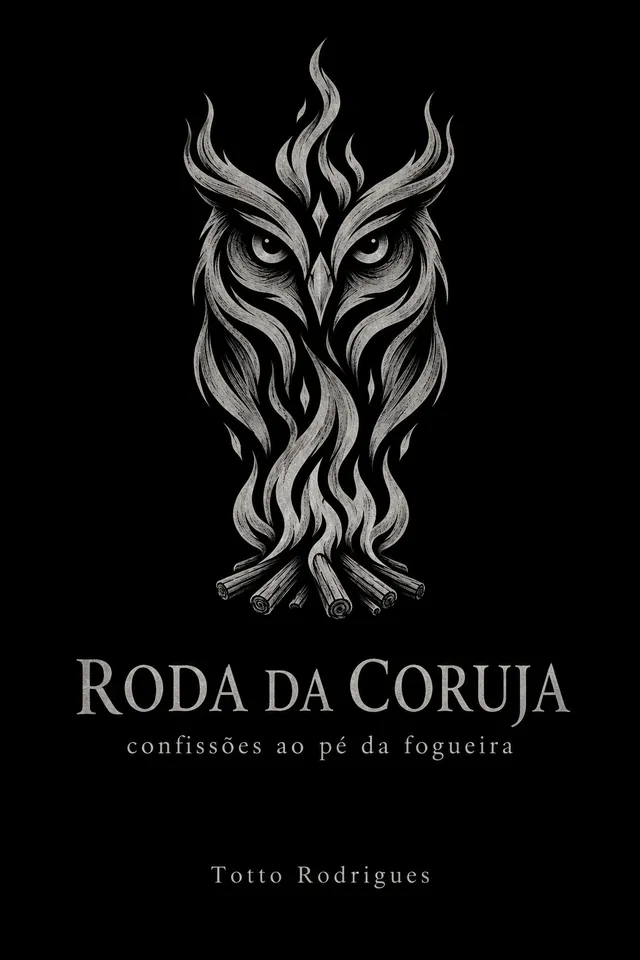
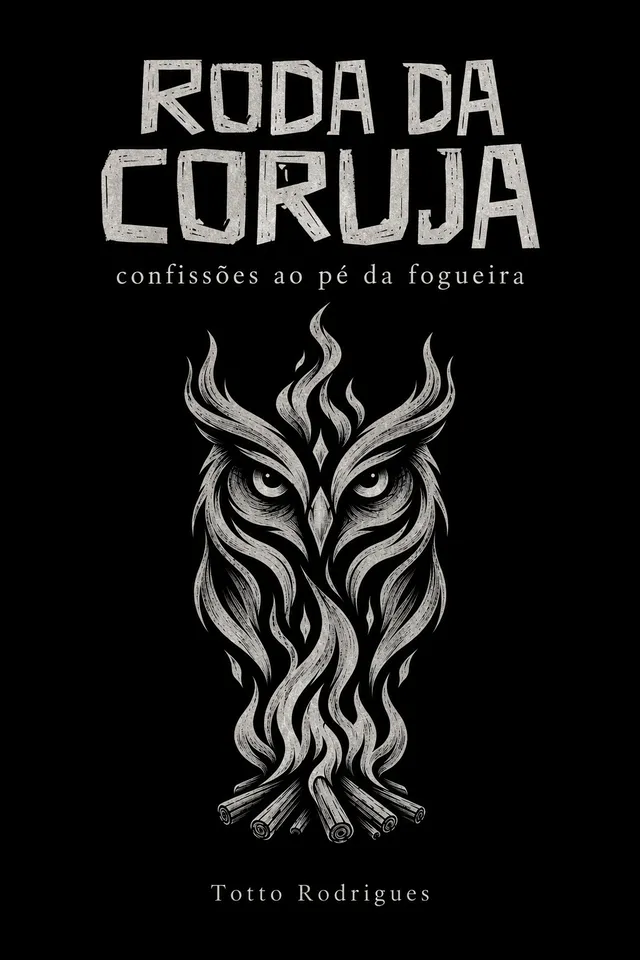
Nova capa de Roda da Coruja

Changed region(s): [[0.125, 0.0312, 0.9062, 0.875], [0.4688, 0.9062, 0.6875, 0.9375], [0.3125, 0.9062, 0.4375, 0.9375]]

diff --git a/index.html b/index.html
@@ -116,7 +116,7 @@
 
           <article class="obra" aria-labelledby="obra-roda">
             <figure class="obra-capa">
-              <img src="assets/img/obras/roda-da-coruja-capa.webp" alt="Capa de Roda da Coruja: confissões ao pé da fogueira" width="640" height="960" loading="lazy">
+              <img src="assets/img/obras/roda-da-coruja-capa.webp?v=2" alt="Capa de Roda da Coruja: confissões ao pé da fogueira" width="640" height="960" loading="lazy">
             </figure>
             <div>
               <h3 class="obra-titulo" id="obra-roda">Roda da Coruja</h3>
